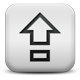
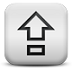
change btn updown

diff --git a/templates/beez/index.php b/templates/beez/index.php
@@ -159,8 +159,8 @@ if ($ajax == 1) {
                 bottom: 0px;
             }
             #btnupdown div{
-                width: 80px;
-                height: 80px;
+                width: 72px;
+                height: 72px;
                 cursor: pointer;
             }
             #btndown{

diff --git a/templates/manager/index.php b/templates/manager/index.php
@@ -59,8 +59,8 @@ defined('_JEXEC') or die('Restricted access');
             bottom: 0px;
         }
         #btnupdown div{
-            width: 48px;
-            height: 48px;
+            width: 72px;
+            height: 72px;
             cursor: pointer;
         }
         #btndown{
